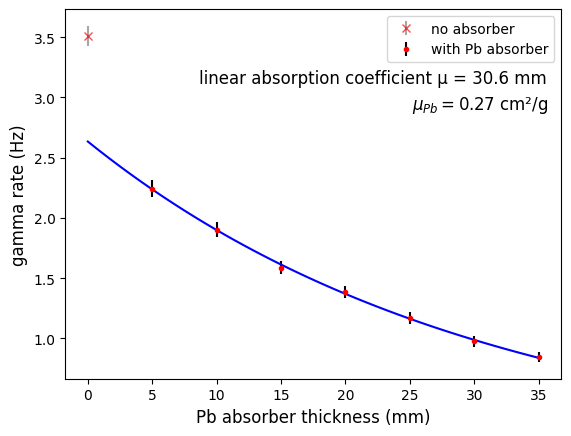
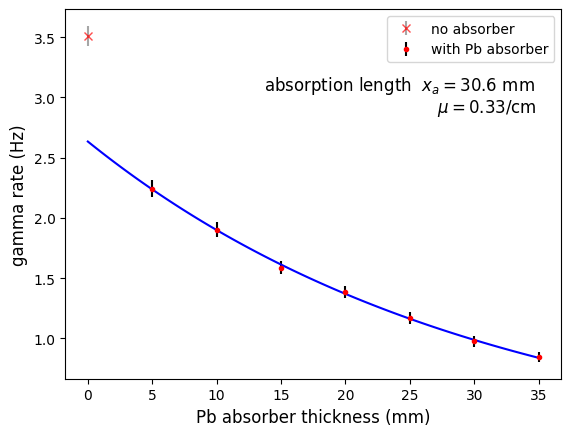
fixed ambiguity between absorption coefficien and length

Changed region(s): [[0.3275, 0.1491, 0.9825, 0.2683]]

diff --git a/EducatorsGuide.md b/EducatorsGuide.md
@@ -757,12 +757,13 @@ the γ is removed from the incident beam. As the radiation penetrates a depth
 $l$ of material, the number of remaining photons $N(l)$ decreases by $dN$, 
 while the interaction rate is proportional to $N(l)$. This leads to an 
 expected exponential dependence of the remaining number of photons, 
-$N(l) = N_0 \cdot \exp{(- l/ \mu)}$.
+$N(l) = N_0 \cdot \exp{(- \mu \, l)}$.
 $\mu$ is the mass absorption (or attenuation) coefficient of the material, 
 which can be determined in a sequence of measurements with varying absorber 
-thickness and incident γ energy. This exponential behavior is confirmed 
-in the plot below, which shows the measured γ rate as a function of the 
-penetrated absorber thickness.
+thickness and incident γ energy. Often, the absorption length, $x_a = 1/\mu$
+is used instead of the attenuation coefficient. 
+This exponential behavior is confirmed in the plot below, which shows the
+measured γ rate as a function of the penetrated absorber thickness.
 
 > ![Cs-137 γ rates vs. thickness of Pb absorber plates](
   images/gamma_absorption_Pb.png) 
@@ -772,6 +773,5 @@ fitted exponential function because this measurement also contains β tracks
 emitted by the Cs-137 source. Their clear separation from the electrons 
 induced by γ radiation is not possible using the signatures in the *miniPIX*,
 and therefore a first layer of absorber material is needed to get rid of the 
-β component. The measurements with at least one absorber plate beautifully 
-confirm the expected exponential relationship between the γ rate and the 
-absorber thickness.
+β component. The measurements with at least one absorber plate confirm the
+expected exponential relationship between the γ rate and the absorber thickness.